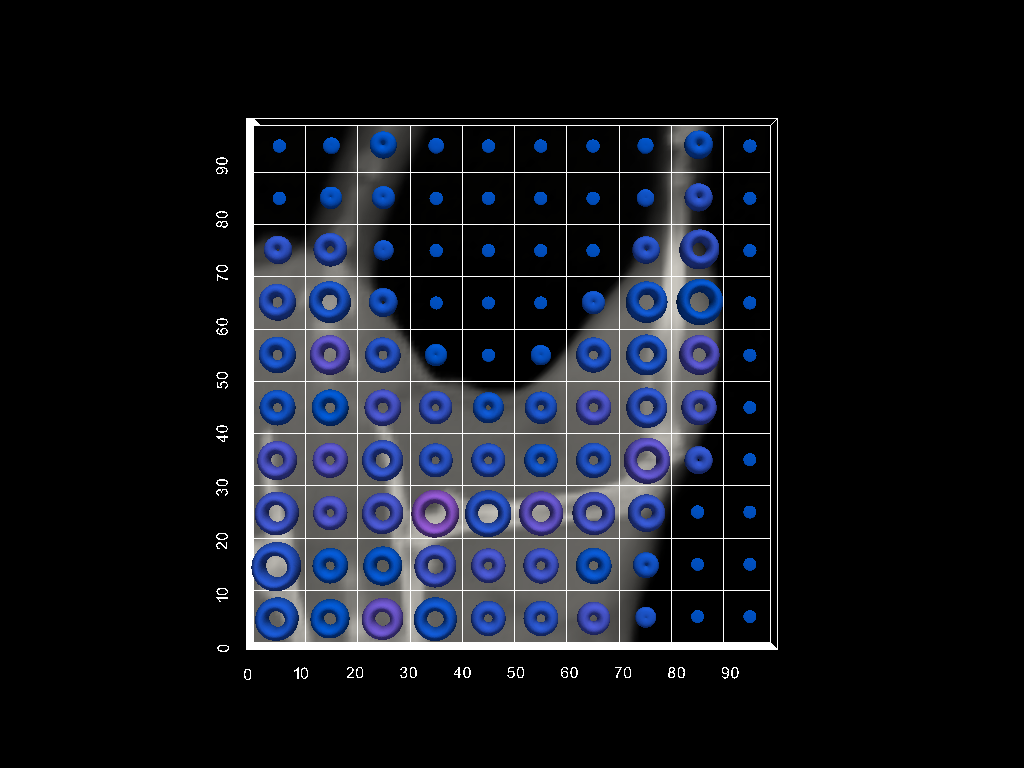
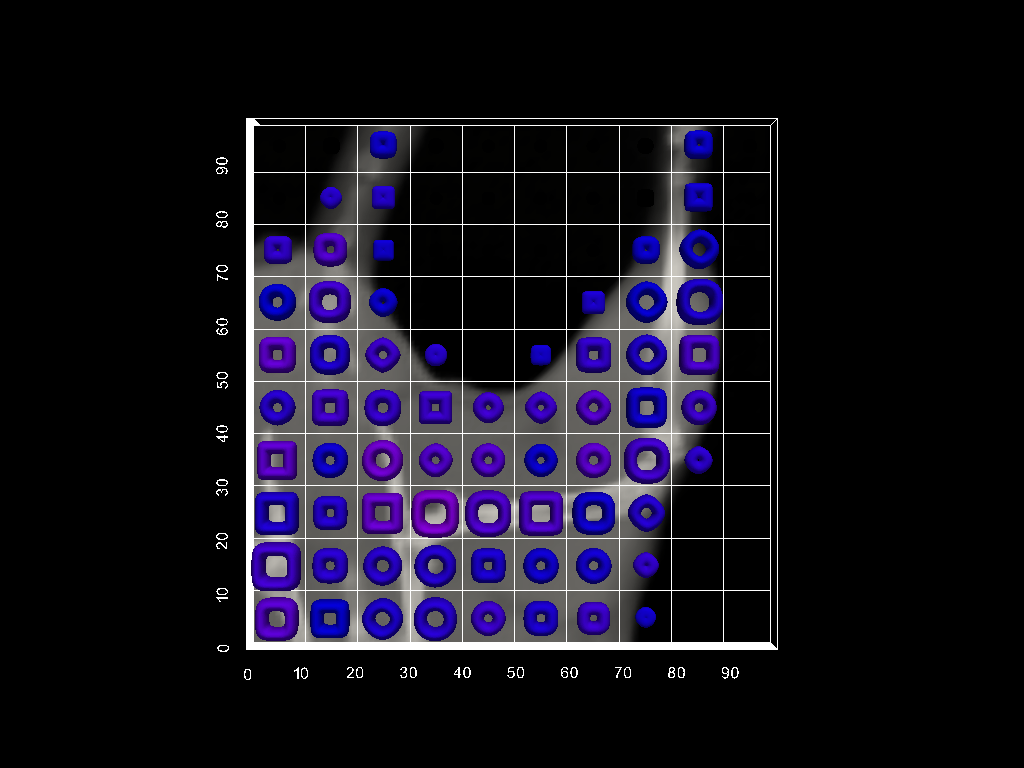
current folder added

diff --git a/vtktesting/pyvista/supertorus_new.py b/vtktesting/pyvista/supertorus_new.py
@@ -5,7 +5,7 @@
 # Wawrzyniec L. Dobrucki, Ph.D.
 #
 
-import pyvista
+import pyvista as pv
 import numpy as np
 import random
 import matplotlib.pyplot as plt
@@ -13,35 +13,9 @@ import matplotlib.pyplot as plt
 
 def supertorus(yScale, xScale, Height, InternalRadius, Vertical, Horizontal,
                deltaX=0, deltaY=0, deltaZ=0):
-  
-    #  initial range for values used in parametric equation
-    n = 100
-    u = np.linspace(-np.pi, np.pi, n)
-    t = np.linspace(-np.pi, np.pi, n)
-    u, t = np.meshgrid(u, t)
-
-    # a1: Y Scale <0, 2>
-    a1 = yScale
-    # a2: X Scale <0, 2>
-    a2 = xScale
-    # a3: Height <0, 5>
-    a3 = Height
-    # a4: Internal radius <0, 5>
-    a4 = InternalRadius
-    # e1: Vertical squareness <0.25, 1>
-    e1 = Vertical
-    # e2: Horizontal squareness <0.25, 1>
-    e2 = Horizontal
-
-    # Definition of parametric equation for supertorus
-    x = a1 * (a4 + np.sign(np.cos(u)) * np.abs(np.cos(u)) ** e1) *\
-        np.sign(np.cos(t)) * np.abs(np.cos(t)) ** e2
-    y = a2 * (a4 + np.sign(np.cos(u)) * np.abs(np.cos(u)) ** e1) *\
-        np.sign(np.sin(t)) * np.abs(np.sin(t)) ** e2
-    z = a3 * np.sign(np.sin(u)) * np.abs(np.sin(u)) ** e1
-    
-    grid = pyvista.StructuredGrid(x + deltaX + 5, y + deltaY + 5, z + deltaZ)
-    return grid 
+    grid = pv.ParametricSuperToroid(ringradius=xScale, crosssectionradius=InternalRadius, xradius=xScale, yradius=yScale, zradius=Height, n1=Vertical, n2=Horizontal)
+    grid.translate([deltaX + 5, deltaY + 5, deltaZ])
+    return grid
 
 # Create and plot structured grid
 # To define supertori use the following function (defined above)
@@ -49,7 +23,7 @@ def supertorus(yScale, xScale, Height, InternalRadius, Vertical, Horizontal,
 #            deltaX=0, deltaY=0, deltaZ=0)
 
 # background image 100x100 pixels
-image = pyvista.read('images/hindlimb.jpg')
+image = pv.read('images/hindlimb.jpg')
 
 # same image but rescaled to 10x10 pixels in grayscale
 image10 = plt.imread('images/hindlimb10.jpg')
@@ -58,7 +32,7 @@ image10_gray = 0.2989 * image10[:,:,0] + 0.5870 * image10[:,:,1] + 0.1140 * imag
 print('Plotting ...')
 
 # setup the screen to plot image
-p = pyvista.Plotter()
+p = pv.Plotter()
 p.add_mesh(image, cmap='Greys_r')
 p.show_bounds(grid='front', xlabel='', ylabel='', zlabel='', location='outer', all_edges=True)
 p.remove_scalar_bar()
@@ -79,25 +53,21 @@ for i in range(0, 100, 10):
         image10_point = image10_gray[9-j10, i10]/256
         perfusion = 0.1 + 5 * image10_point
         hypoxia = 4 * image10_point
-        squareness = 0.25 + random.random()
-        # squareness = 1
+        # squareness = 0.25 + random.random()
+        squareness = 1
         surface = supertorus(yScale=1.25, xScale=1.25,
                              Height=perfusion,
                              InternalRadius=hypoxia,
                              Vertical=1,
                              Horizontal=squareness,
                              deltaX=i, deltaY=j, deltaZ=perfusion)
-        # when perfusion is very low, change color of torus to black (invisible)
-        if image10_point < 0.1:
-            color_surface = [0, 0, 0]
-        else:
-            color_surface = [image10_point * random.random(), 0, 1]
-        p.add_mesh(surface, color=color_surface, opacity=1)
+        p.add_mesh(surface, color=[image10_point * random.random(), 0.4, 1], opacity=1)
+
 
 p.view_xy()
-p.screenshot('images/glyph_image_xy.png')
+# p.screenshot('images/glyph_image_xy.png')
 
 p.view_isometric()
-p.screenshot('images/glyph_image_isometric.png')
+# p.screenshot('images/glyph_image_isometric.png')
 
 p.show()

diff --git a/current/pyvista_supertoroid.py b/current/pyvista_supertoroid.py
@@ -1,0 +1,41 @@
+# PARAMETRIC SUPER TOROID IMPLEMENTATION IN PYVISTA
+#
+# pyvista.ParametricSuperToroid(ringradius=None, crosssectionradius=None, 
+# xradius=None, yradius=None, zradius=None, n1=None, n2=None, **kwargs)
+#
+# ringradius (double, optional) – The radius from the center to the middle of 
+#    the ring of the supertoroid. Default is 1.
+# crosssectionradius (double, optional) – The radius of the cross section of
+#    ring of the supertoroid. Default = 0.5.
+# xradius (double, optional) – The scaling factor for the x-axis. Default is 1.
+# yradius (double, optional) – The scaling factor for the y-axis. Default is 1.
+# zradius (double, optional) – The scaling factor for the z-axis. Default is 1.
+# n1 (double, optional) – The shape of the torus ring. Default is 1.
+# n2 (double, optional) – The shape of the cross section of the ring. 
+#    Default is 1.
+
+import pyvista as pv
+
+# create supertorus #1
+supertoroid = pv.ParametricSuperToroid(ringradius=1, crosssectionradius=0.5,
+                                       xradius=1, yradius=1, zradius=3,
+                                       n1=1, n2=1)
+
+# create supertorus #2 and translate it to another position
+# Note: to keep the heights OK, crosssectionradius*zradius should be the same
+supertoroid2 = pv.ParametricSuperToroid(ringradius=1, crosssectionradius=0.1,
+                                       xradius=1, yradius=1, zradius=15,
+                                       n1=1, n2=1)
+supertoroid2.translate([0, 0, 3])
+
+# create plotting objects
+plotter = pv.Plotter()
+plotter.add_mesh(supertoroid, 'r')
+plotter.add_mesh(supertoroid2, 'b')
+
+# show plotted objects
+plotter.show()
+
+# alternatively, individual objects can be plotted as this:
+# supertoroid.plot(color="tan", smooth_shading=True)
+# supertoroid2.plot(color="red", smooth_shading=True)

diff --git a/current/pyvista_grid_from_array.py b/current/pyvista_grid_from_array.py
@@ -1,0 +1,39 @@
+import pyvista as pv
+import numpy as np
+import matplotlib.pyplot as plt
+
+x = np.arange(-10, 10, 1)
+y = np.arange(-10, 10, 1)
+z = np.arange(-10, 10, 1)
+x, y, z = np.meshgrid(x, y, z)
+
+grid = pv.StructuredGrid(x, y, z)
+print(grid.points.shape)
+
+# let's define array d which will contain count values
+# for each point of the grid. Now array d is filled with random
+# integer values
+d = np.random.randint(low=1, high=100, size=grid.points.shape)
+
+# or you can fill the scalar values with zeros
+# d = np.zeros_like(grid.points)
+
+grid.plot(show_edges=True, scalars=d[:, 1],
+          stitle='Counts (CPM)')
+
+# next example: opacity transfer function (opacity of each cell depends
+# on the scalar value). Example from pyvista project page:
+# https://docs.pyvista.org/examples/02-plot/opacity.html
+opacity = [0, 0.2, 0.9, 0.6, 0.3]
+
+# Have PyVista interpolate the transfer function
+tf = pv.opacity_transfer_function(opacity, 100).astype(float) / 100.
+
+plt.plot(tf)
+plt.title('My Interpolated Opacity Transfer Function')
+plt.ylabel('Opacity')
+plt.xlabel('Index along scalar mapping')
+plt.show()
+
+grid.plot(show_edges=True, scalars=d[:, 1], opacity=opacity,
+          stitle='Counts (CPM) with Opacity')

diff --git a/current/psf_wiener.py b/current/psf_wiener.py
@@ -1,0 +1,33 @@
+# standard imports
+
+import numpy as np
+import matplotlib.pyplot as plt
+from skimage import color, data, restoration
+from scipy.signal import convolve2d as conv2
+
+# image sample
+astro = color.rgb2gray(data.astronaut())
+plt.title('Original image')
+plt.imshow(astro, cmap='gray')
+plt.show()
+
+# define PSF as an array
+# psf = np.ones((5, 5)) / 25
+psf = np.array([[1,2,4,2,1],[2,4,8,4,2],[4,8,16,8,4],[2,4,8,4,2],[1,2,4,2,1]])
+psf = psf / 25
+print(psf)
+plt.title('Point Spread Function')
+plt.imshow(psf, cmap='gray')
+plt.show()
+
+# convolution of an original image and the PSF
+astro_PSF = conv2(astro, psf, 'same')
+plt.title('Imaged blurred with PSF')
+plt.imshow(astro_PSF, cmap='gray')
+plt.show()
+
+# deconvolution of blurred image with Wiener filter
+astro_deconvolved, noise = restoration.unsupervised_wiener(astro_PSF, psf)
+plt.title('Blurred imaged recovered using \n inverse function (Wiener filter)')
+plt.imshow(astro_deconvolved, cmap='gray')
+plt.show()

diff --git a/current/pyvista_gridded_mesh.py b/current/pyvista_gridded_mesh.py
@@ -1,0 +1,18 @@
+import numpy as np
+import pyvista as pv
+from pyvista import examples
+
+mesh = examples.load_hexbeam()
+print(mesh)
+bcpos = [(6.20, 3.00, 7.50),
+         (0.16, 0.13, 2.65),
+         (-0.28, 0.94, -0.21)]
+
+p = pv.Plotter()
+p.add_mesh(mesh, show_edges=True, color='red')
+# p.add_mesh(pv.PolyData(mesh.points), color='red',
+#       point_size=10, render_points_as_spheres=True)
+p.camera_position = [(6.20, 3.00, 7.50),
+                 (0.16, 0.13, 2.65),
+                 (-0.28, 0.94, -0.21)]
+p.show(screenshot='beam_nodes.png')

diff --git a/current/pyvista_point_cloud.py b/current/pyvista_point_cloud.py
@@ -1,0 +1,6 @@
+import numpy as np
+import pyvista as pv
+
+nodes = np.random.rand(100, 3)
+mesh = pv.PolyData(nodes)
+mesh.plot(point_size=10, screenshot='random_nodes.png')
